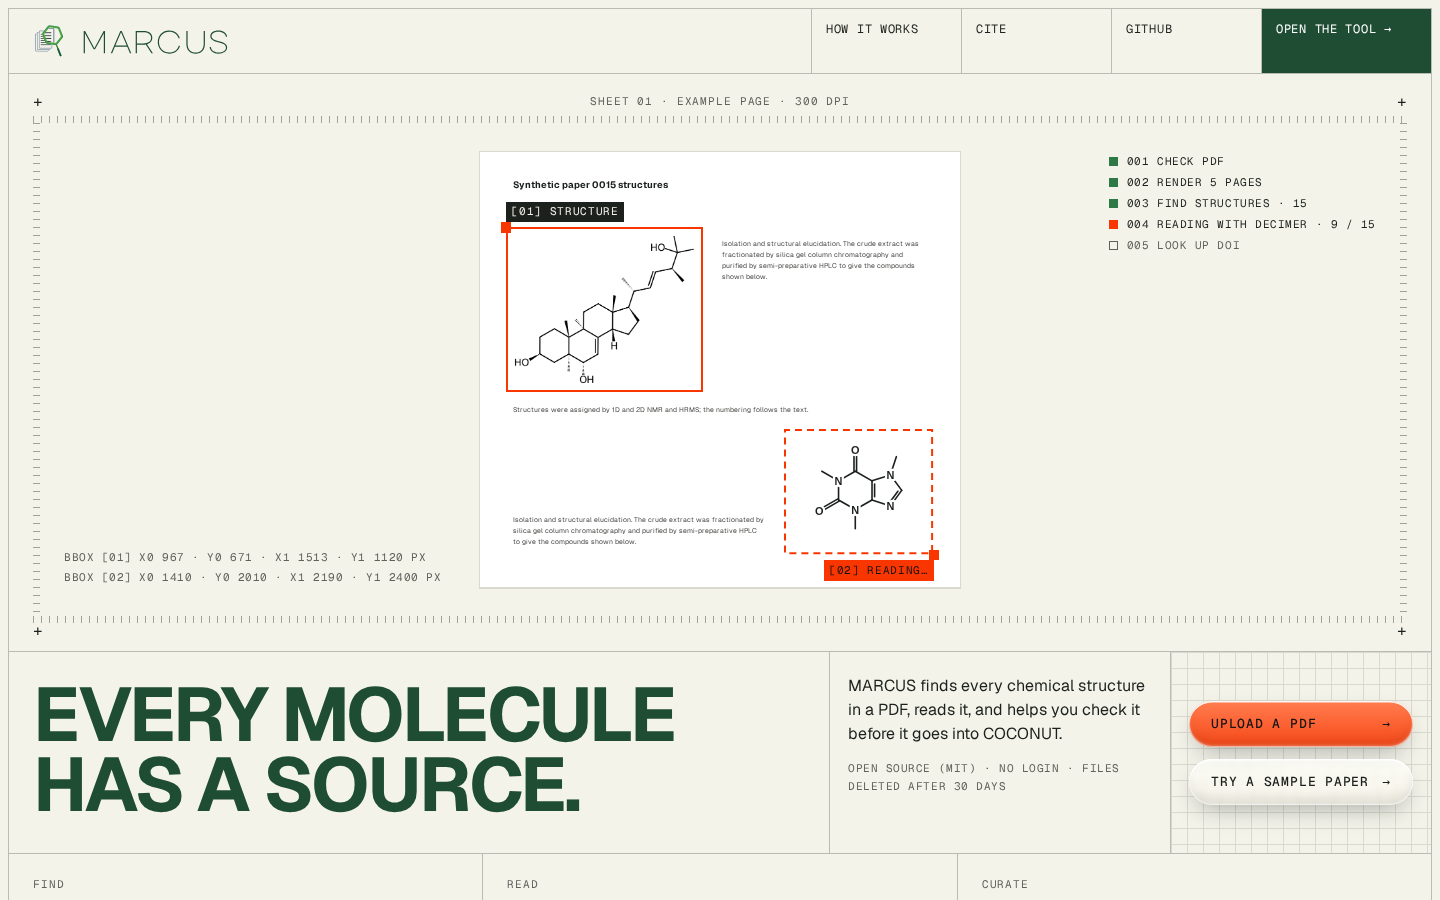
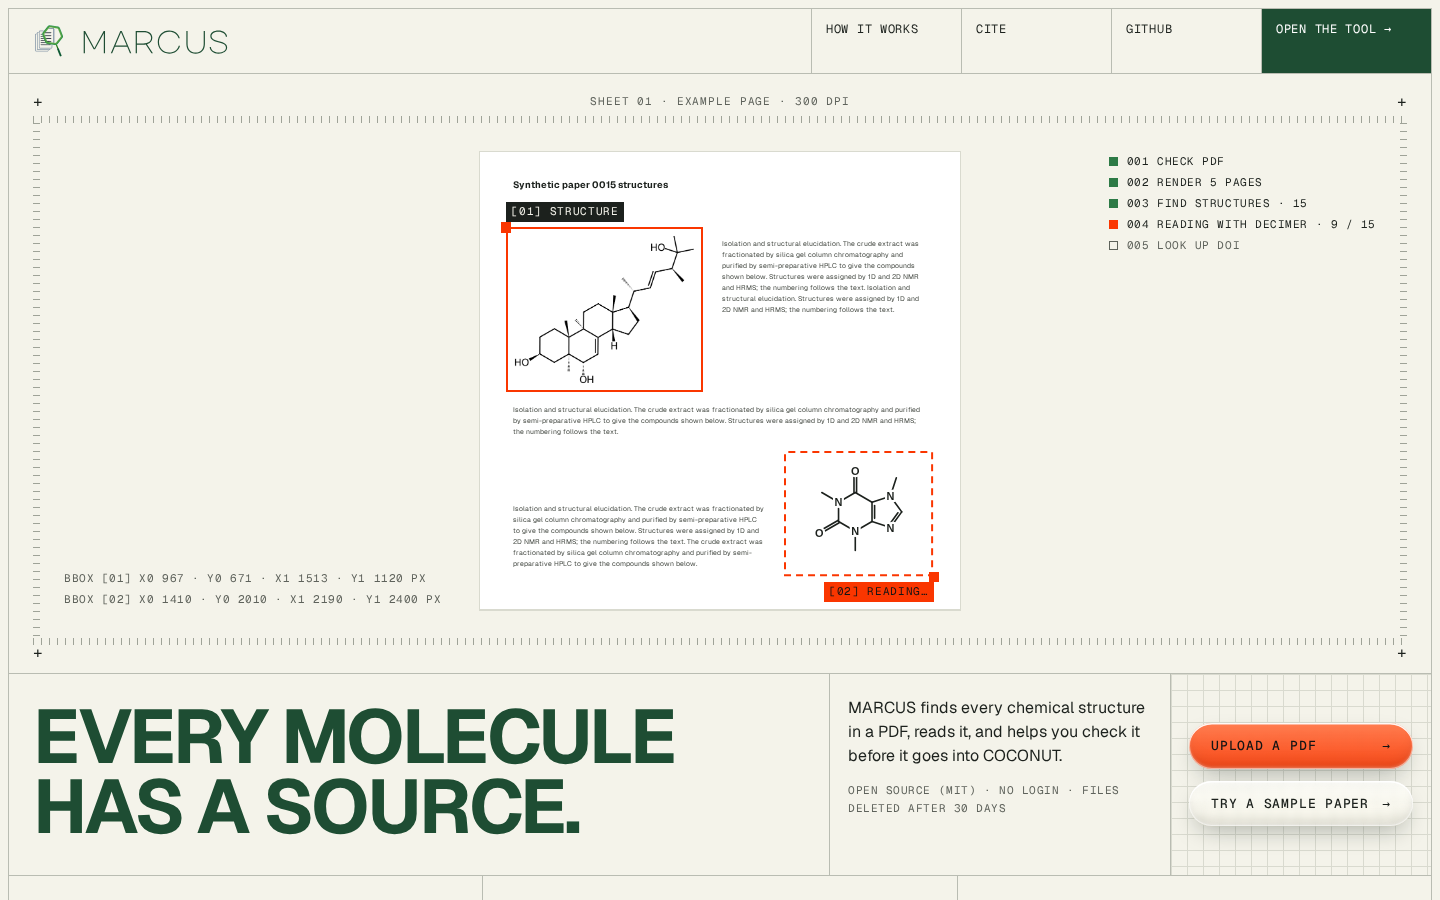
fix(frontend-v2): hero sheet text fills its blocks
The example page runs the sample paper's own sentences to the board's
line counts: 7 beside [01], 3 full width, 6 beside [02].

diff --git a/frontend-v2/src/pages/Landing.tsx b/frontend-v2/src/pages/Landing.tsx
@@ -47,16 +47,18 @@ const STEPS: [StepState, string][] = [
   ["todo", "005 Look up DOI"],
 ];
 
-// The sample paper's own text (synth_015 prints the same paragraph on every page), set
-// around the two markers.
+// The sample paper's own text (synth_015 prints the same paragraph on every page), run to fill
+// the board's blocks around the two markers: about 7 lines, 3 and 6.
 const PAGE_TITLE = "Synthetic paper 0015 structures";
-const LEAD =
-  "Isolation and structural elucidation. The crude extract was fractionated by silica gel " +
-  "column chromatography and purified by semi-preparative HPLC to give the compounds shown below.";
+const S1 = "Isolation and structural elucidation.";
+const S2 =
+  "The crude extract was fractionated by silica gel column chromatography and purified by " +
+  "semi-preparative HPLC to give the compounds shown below.";
+const S3 = "Structures were assigned by 1D and 2D NMR and HRMS; the numbering follows the text.";
 const PAGE_TEXT = [
-  LEAD,
-  "Structures were assigned by 1D and 2D NMR and HRMS; the numbering follows the text.",
-  LEAD,
+  `${S1} ${S2} ${S3} ${S1} ${S3}`,
+  `${S1} ${S2} ${S3}`,
+  `${S1} ${S2} ${S3} ${S2}`,
 ];
 
 /** Text on the example page (decorative: the hero's label says what the page is). */
